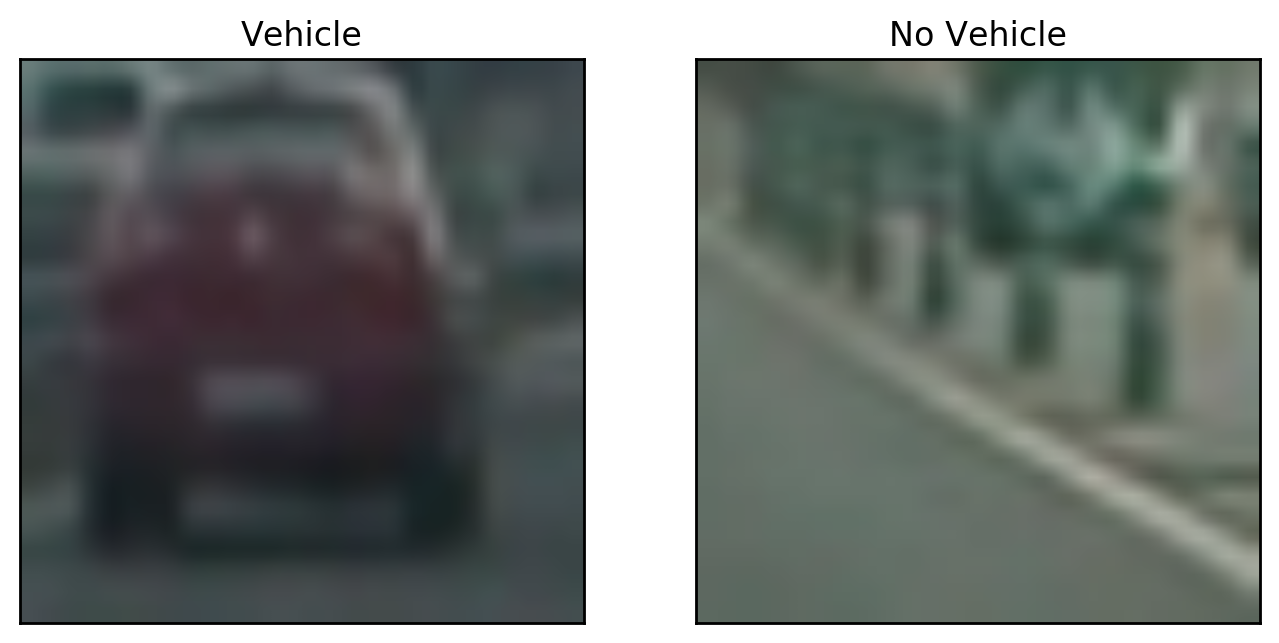
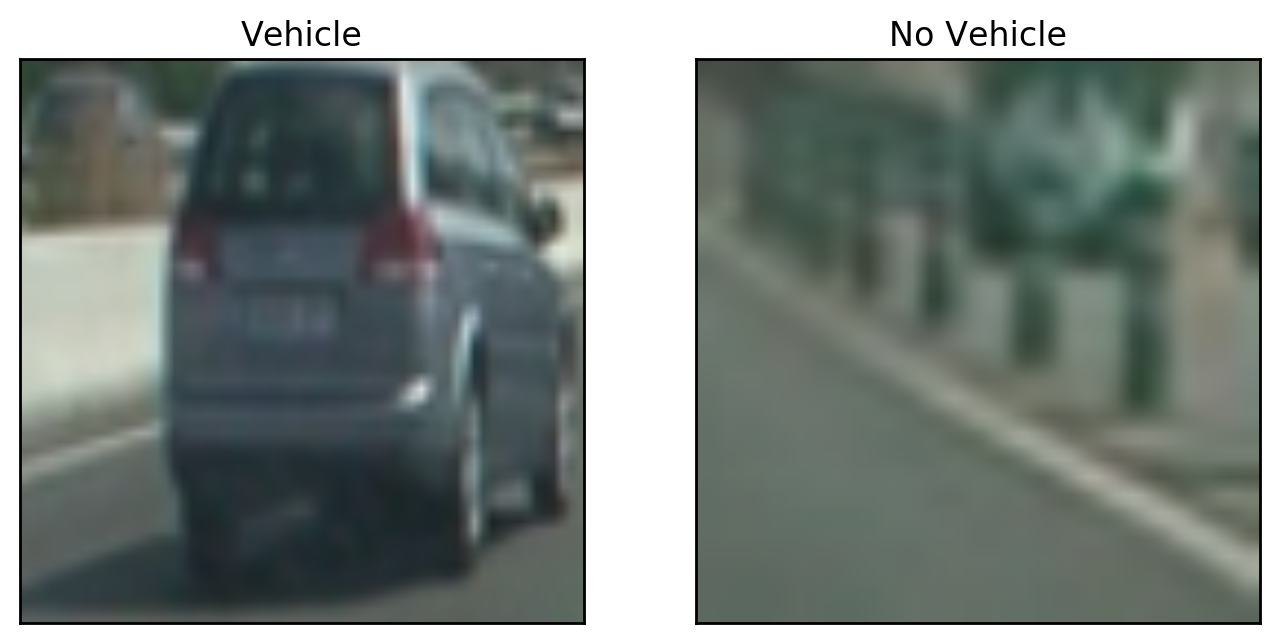
---/JoFr: Intermediate Update

Changed region(s): [[0.0, 0.0933, 0.4574, 0.9642], [0.122, 0.8709, 0.3354, 0.9642]]

diff --git a/lib/VehicleDetection.py b/lib/VehicleDetection.py
@@ -1,4 +1,4 @@
-#
+# Import static methods in Utils.py file
 from lib.Utils import *
 
 # Image processing
@@ -16,10 +16,9 @@ from sklearn.externals import joblib
 # Import everything needed to edit/save/watch video clips
 from moviepy.editor import *
 
-#
+# Import common python modules
 import os
 import glob
-import csv
 import random as rng
 from tqdm import tqdm
 import time
@@ -39,17 +38,17 @@ class VehicleDetection:
         self.visualization = settings["Visualization"]
 
         # Define HOG parameters
-        self.orient = 9
-        self.pix_per_cell = 8
-        self.cell_per_block = 2
+        self.orient = None
+        self.pix_per_cell = None
+        self.cell_per_block = None
 
         # Define color hist parameters
         self.n_bins = 32
         self.bins_range = (0, 256)
 
-        #
-        self.prediction_class = 0
-        self.scaler = 0
+        # Internal storage of prediction method and scaling
+        self.prediction_class = None
+        self.scaler = None
 
     def get_features(self, img):
         """
@@ -64,7 +63,7 @@ class VehicleDetection:
                                         cell_per_block=self.cell_per_block)
 
         #
-        color_features = color_hist(img, n_bins=self.n_bins, bins_range=self.bins_range)
+        color_features = color_hist(cv2.cvtColor(img, cv2.COLOR_RGB2HLS), n_bins=self.n_bins, bins_range=self.bins_range)
 
         # Normalize hog and color features separately and return feature vector containing both
         return np.concatenate((hog_features, color_features))
@@ -91,7 +90,7 @@ class VehicleDetection:
         """
 
         # Use these two images for visualization
-        img_vehicle = mpimg.imread("data/ProjectData/vehicles/GTI_Far/image0065.png")
+        img_vehicle = mpimg.imread("data/ProjectData/vehicles/GTI_Left/image0034.png")
         img_non_vehicle = mpimg.imread("data/ProjectData/non-vehicles/GTI/image5.png")
 
         # Visualize both images
@@ -111,41 +110,114 @@ class VehicleDetection:
         # Plot features
         img_vehicle_gray = cv2.cvtColor(img_vehicle, cv2.COLOR_RGB2GRAY)
         img_non_vehicle_gray = cv2.cvtColor(img_non_vehicle, cv2.COLOR_RGB2GRAY)
+        img_vehicle_hls = cv2.cvtColor(img_vehicle, cv2.COLOR_RGB2HLS)
+        img_non_vehicle_hls = cv2.cvtColor(img_non_vehicle, cv2.COLOR_RGB2HLS)
 
         filename = os.path.join(folder, "overview_features.png")
         font_size = 6
 
-        hog_features, hog_image = get_hog_features(img_vehicle_gray, orient=self.orient,
-                                               pix_per_cell=self.pix_per_cell, cell_per_block=self.cell_per_block,
-                                               vis=True)
+        hog_features, hog_image_vehicle = get_hog_features(img_vehicle_gray, orient=self.orient, pix_per_cell=self.pix_per_cell,
+                                                           cell_per_block=self.cell_per_block, vis=True)
 
         fig = plt.subplot(4, 4, 1)
-        plt.imshow(one_channel_to_gray(img_vehicle_gray))
+        plt.imshow(img_vehicle_gray, cmap='gray')
         fig.axes.get_xaxis().set_visible(False)
         fig.axes.get_yaxis().set_visible(False)
         plt.title("Vehicle Grayscale", fontsize=font_size)
 
         fig = plt.subplot(4, 4, 2)
-        plt.imshow(one_channel_to_gray(hog_image) * 255)
+        plt.imshow(hog_image_vehicle, cmap='gray')
         fig.axes.get_xaxis().set_visible(False)
         fig.axes.get_yaxis().set_visible(False)
         plt.title("Vehicle Grayscale HOG", fontsize=font_size)
 
-        hog_features, hog_image = get_hog_features(img_non_vehicle_gray, orient=self.orient,
+        hog_features, hog_image_non_vehicle = get_hog_features(img_non_vehicle_gray, orient=self.orient,
                                                    pix_per_cell=self.pix_per_cell, cell_per_block=self.cell_per_block,
                                                    vis=True)
 
         fig = plt.subplot(4, 4, 3)
-        plt.imshow(one_channel_to_gray(img_non_vehicle_gray))
+        plt.imshow(img_non_vehicle_gray, cmap='gray')
         fig.axes.get_xaxis().set_visible(False)
         fig.axes.get_yaxis().set_visible(False)
         plt.title("Non-Vehicle Grayscale", fontsize=font_size)
 
         fig = plt.subplot(4, 4, 4)
-        plt.imshow(one_channel_to_gray(hog_image) * 255)
+        plt.imshow(hog_image_non_vehicle, cmap='gray')
         fig.axes.get_xaxis().set_visible(False)
         fig.axes.get_yaxis().set_visible(False)
         plt.title("Non-Vehicle Grayscale HOG", fontsize=font_size)
+
+        fig = plt.subplot(4, 4, 5)
+        plt.imshow(img_vehicle_hls[:, :, 0], cmap='gray')
+        fig.axes.get_xaxis().set_visible(False)
+        fig.axes.get_yaxis().set_visible(False)
+        plt.title("Vehicle H-Channel", fontsize=font_size)
+
+        fig = plt.subplot(4, 4, 6)
+        plt.hist(img_vehicle_hls[:, :, 0], bins=self.n_bins)
+        fig.axes.get_xaxis().set_visible(False)
+        fig.axes.get_yaxis().set_visible(False)
+        plt.title("Vehicle H-Channel Histogram", fontsize=font_size)
+
+        fig = plt.subplot(4, 4, 7)
+        plt.imshow(img_non_vehicle_hls[:, :, 0], cmap='gray')
+        fig.axes.get_xaxis().set_visible(False)
+        fig.axes.get_yaxis().set_visible(False)
+        plt.title("Non-Vehicle H-Channel", fontsize=font_size)
+
+        fig = plt.subplot(4, 4, 8)
+        plt.hist(img_non_vehicle_hls[:, :, 0], bins=self.n_bins)
+        fig.axes.get_xaxis().set_visible(False)
+        fig.axes.get_yaxis().set_visible(False)
+        plt.title("Non-Vehicle H-Channel Histogram", fontsize=font_size)
+
+        fig = plt.subplot(4, 4, 9)
+        plt.imshow(img_vehicle_hls[:, :, 1], cmap='gray')
+        fig.axes.get_xaxis().set_visible(False)
+        fig.axes.get_yaxis().set_visible(False)
+        plt.title("Vehicle L-Channel", fontsize=font_size)
+
+        fig = plt.subplot(4, 4, 10)
+        plt.hist(img_vehicle_hls[:, :, 1], bins=self.n_bins)
+        fig.axes.get_xaxis().set_visible(False)
+        fig.axes.get_yaxis().set_visible(False)
+        plt.title("Vehicle L-Channel Histogram", fontsize=font_size)
+
+        fig = plt.subplot(4, 4, 11)
+        plt.imshow(img_non_vehicle_hls[:, :, 1], cmap='gray')
+        fig.axes.get_xaxis().set_visible(False)
+        fig.axes.get_yaxis().set_visible(False)
+        plt.title("Non-Vehicle L-Channel", fontsize=font_size)
+
+        fig = plt.subplot(4, 4, 12)
+        plt.hist(img_non_vehicle_hls[:, :, 1], bins=self.n_bins)
+        fig.axes.get_xaxis().set_visible(False)
+        fig.axes.get_yaxis().set_visible(False)
+        plt.title("Non-Vehicle L-Channel Histogram", fontsize=font_size)
+
+        fig = plt.subplot(4, 4, 13)
+        plt.imshow(img_vehicle_hls[:, :, 2], cmap='gray')
+        fig.axes.get_xaxis().set_visible(False)
+        fig.axes.get_yaxis().set_visible(False)
+        plt.title("Vehicle S-Channel", fontsize=font_size)
+
+        fig = plt.subplot(4, 4, 14)
+        plt.hist(img_vehicle_hls[:, :, 2], bins=self.n_bins)
+        fig.axes.get_xaxis().set_visible(False)
+        fig.axes.get_yaxis().set_visible(False)
+        plt.title("Vehicle S-Channel Histogram", fontsize=font_size)
+
+        fig = plt.subplot(4, 4, 15)
+        plt.imshow(img_non_vehicle_hls[:, :, 2], cmap='gray')
+        fig.axes.get_xaxis().set_visible(False)
+        fig.axes.get_yaxis().set_visible(False)
+        plt.title("Non-Vehicle S-Channel", fontsize=font_size)
+
+        fig = plt.subplot(4, 4, 16)
+        plt.hist(img_non_vehicle_hls[:, :, 2], bins=self.n_bins)
+        fig.axes.get_xaxis().set_visible(False)
+        fig.axes.get_yaxis().set_visible(False)
+        plt.title("Non-Vehicle S-Channel Histogram", fontsize=font_size)
 
         plt.savefig(filename, bbox_inches='tight', dpi=200)
 
@@ -268,6 +340,11 @@ class VehicleDetection:
         # Set filename to store camera calibration information
         storage_file = os.path.join(settings["Folder"], "classifier.p")
         file_exists = os.path.isfile(storage_file)
+
+        # Update internal settings for classifier
+        self.orient = settings["Orientation"]
+        self.pix_per_cell = settings["PixelPerCell"]
+        self.cell_per_block = settings["CellPerBlock"]
 
         if self.visualization:
             print("Storing Visualization for Training Classifier")

diff --git a/lib/Utils.py b/lib/Utils.py
@@ -135,9 +135,9 @@ def color_hist(img, n_bins=32, bins_range=(0, 256)):
     :return:
     """
     # Compute the histogram of the color channels separately
-    channel1_hist = np.histogram(img[:, :, 0], bins=n_bins, range=bins_range)
-    channel2_hist = np.histogram(img[:, :, 1], bins=n_bins, range=bins_range)
-    channel3_hist = np.histogram(img[:, :, 2], bins=n_bins, range=bins_range)
+    channel1_hist = np.histogram(img[:, :, 0], bins=n_bins, range=(0, 360))
+    channel2_hist = np.histogram(img[:, :, 1], bins=n_bins, range=(0, 1))
+    channel3_hist = np.histogram(img[:, :, 2], bins=n_bins, range=(0, 1))
 
     # Concatenate the histograms into a single feature vector
     hist_features = np.concatenate((channel1_hist[0], channel2_hist[0], channel3_hist[0]))

diff --git a/README.md b/README.md
@@ -18,6 +18,7 @@ The goals / steps of this project are the following:
 [image6]: ./results/labels_map.png
 [image7]: ./results/output_bboxes.png
 [video1]: ./results/project_video.mp4
+[video2]: ./results/project_video_combined.mp4
 
 ---
 
@@ -92,3 +93,9 @@ Here's an example result showing the heatmap from a series of frames of video, t
 -
 -
 -
+
+---
+
+###Combined LaneDetection and VehicleTracking
+
+Here's a [link to my video result](./project_video_combined.mp4)
